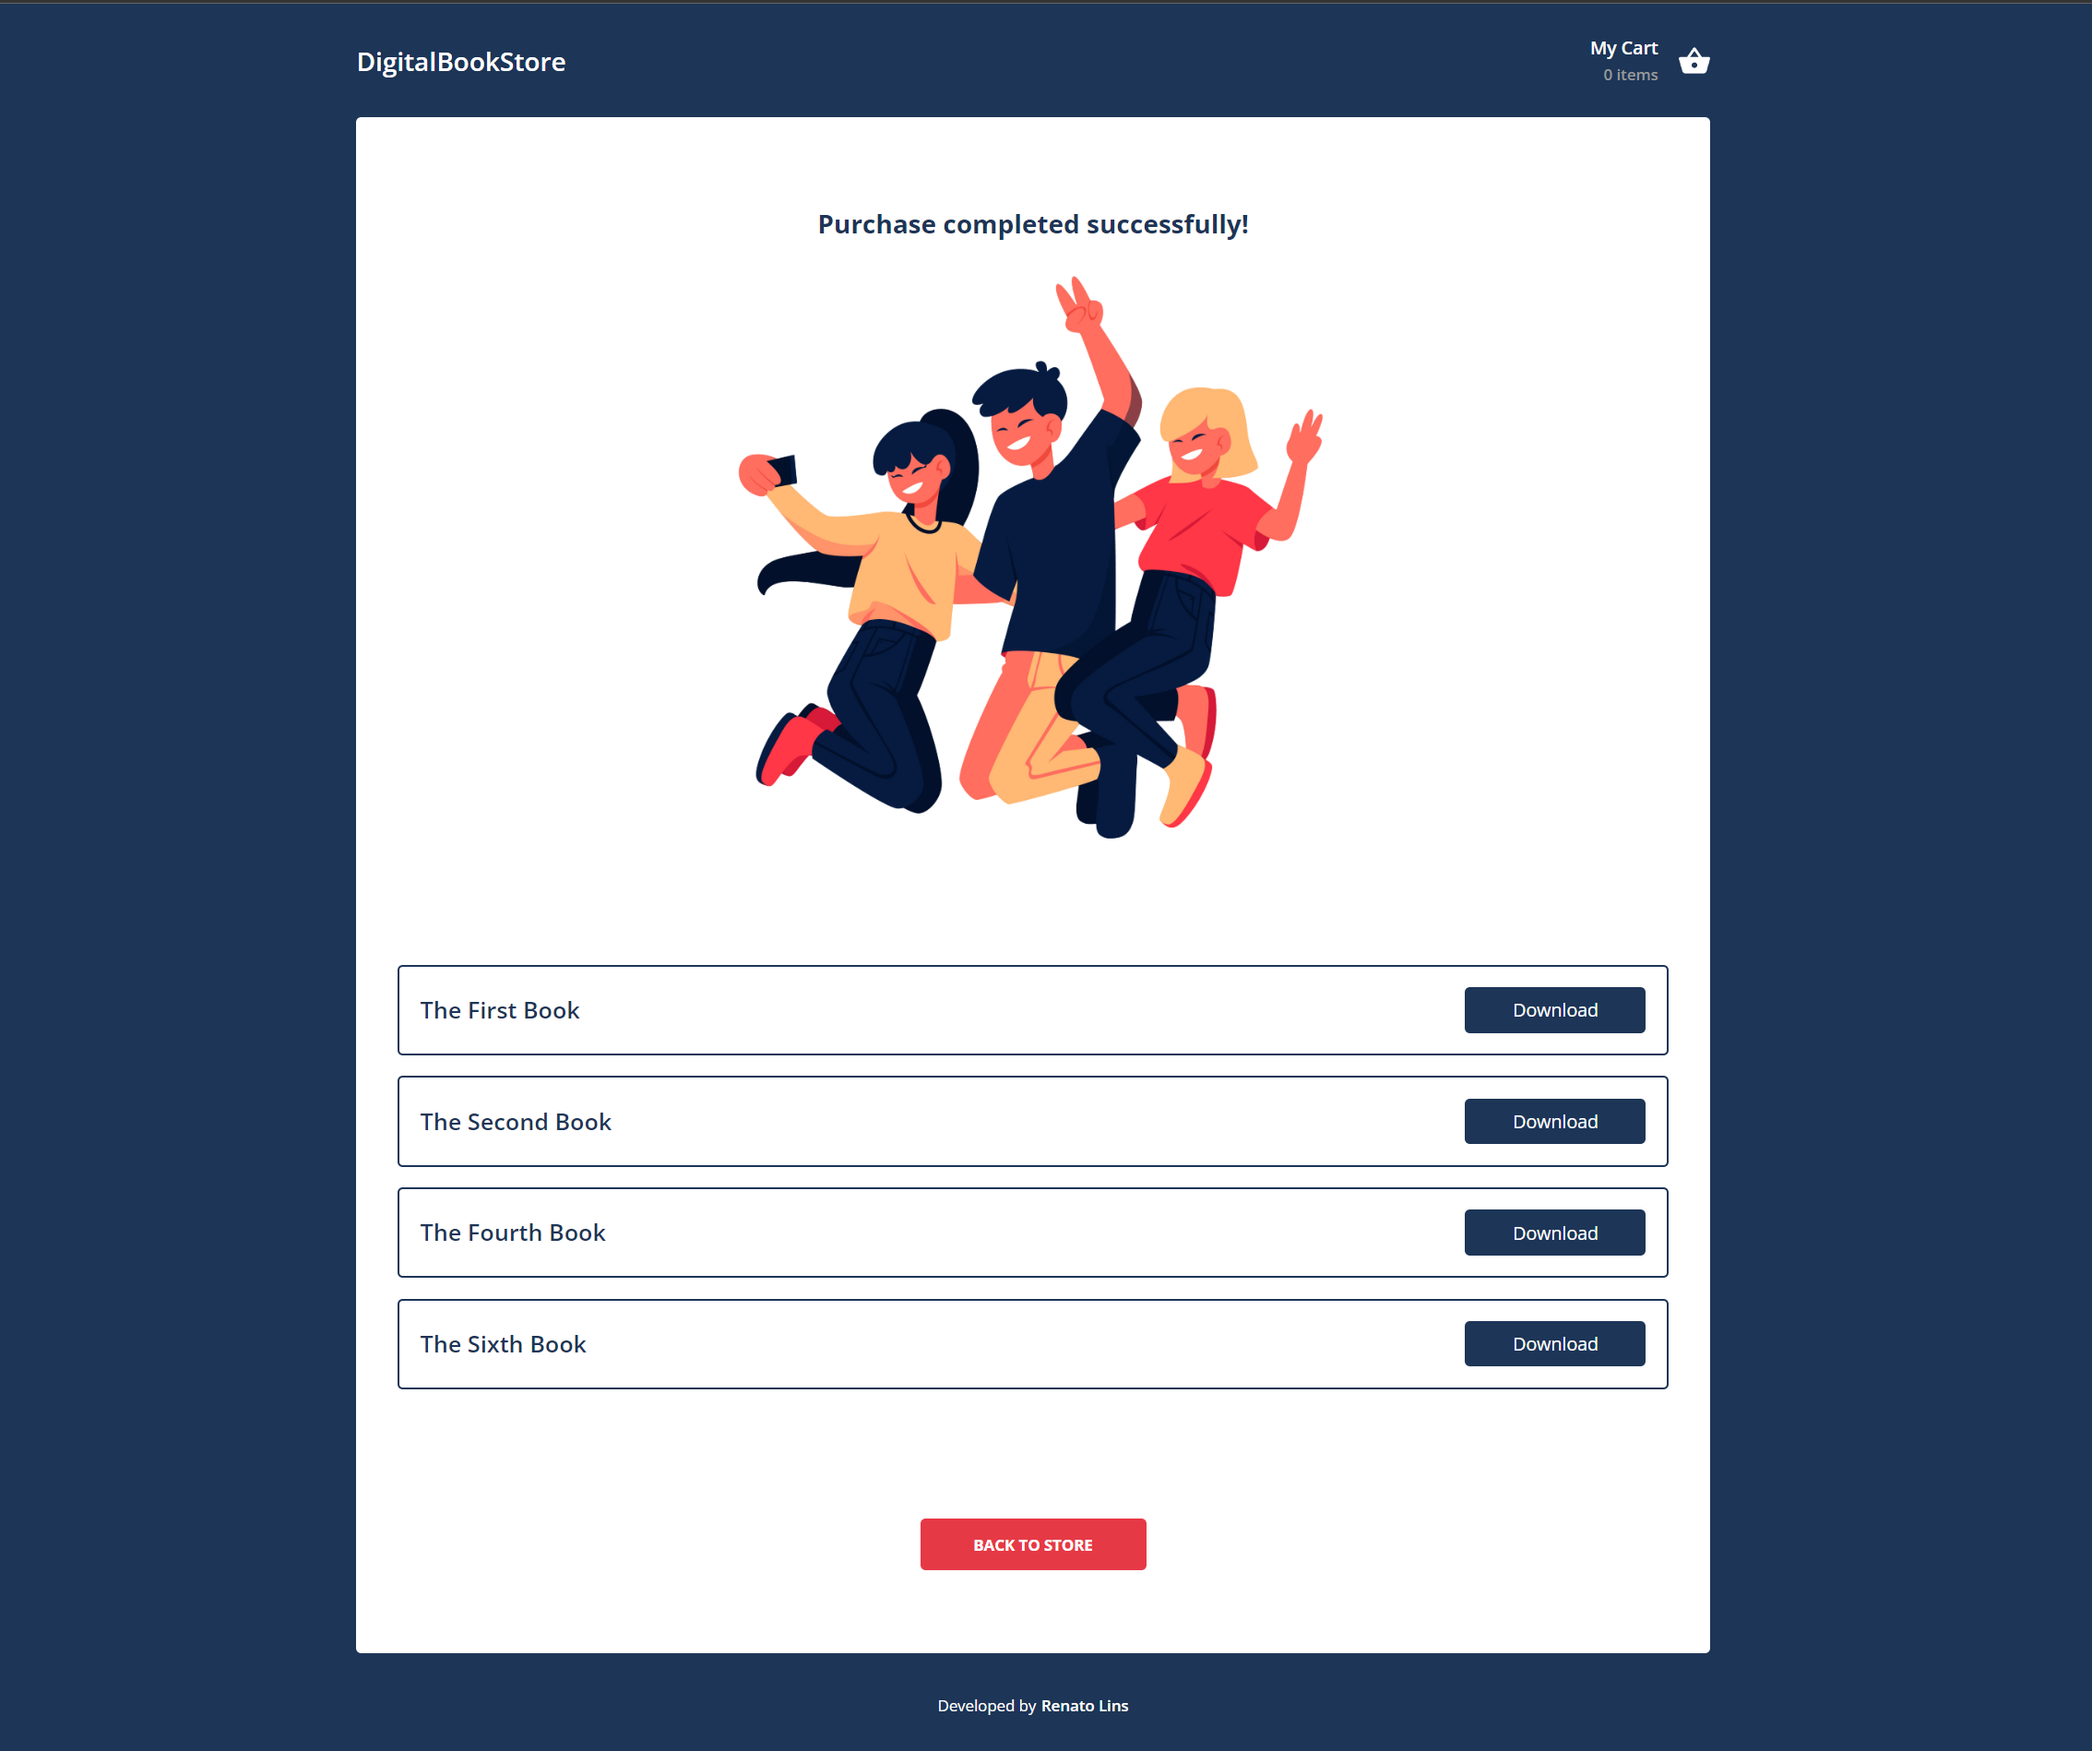
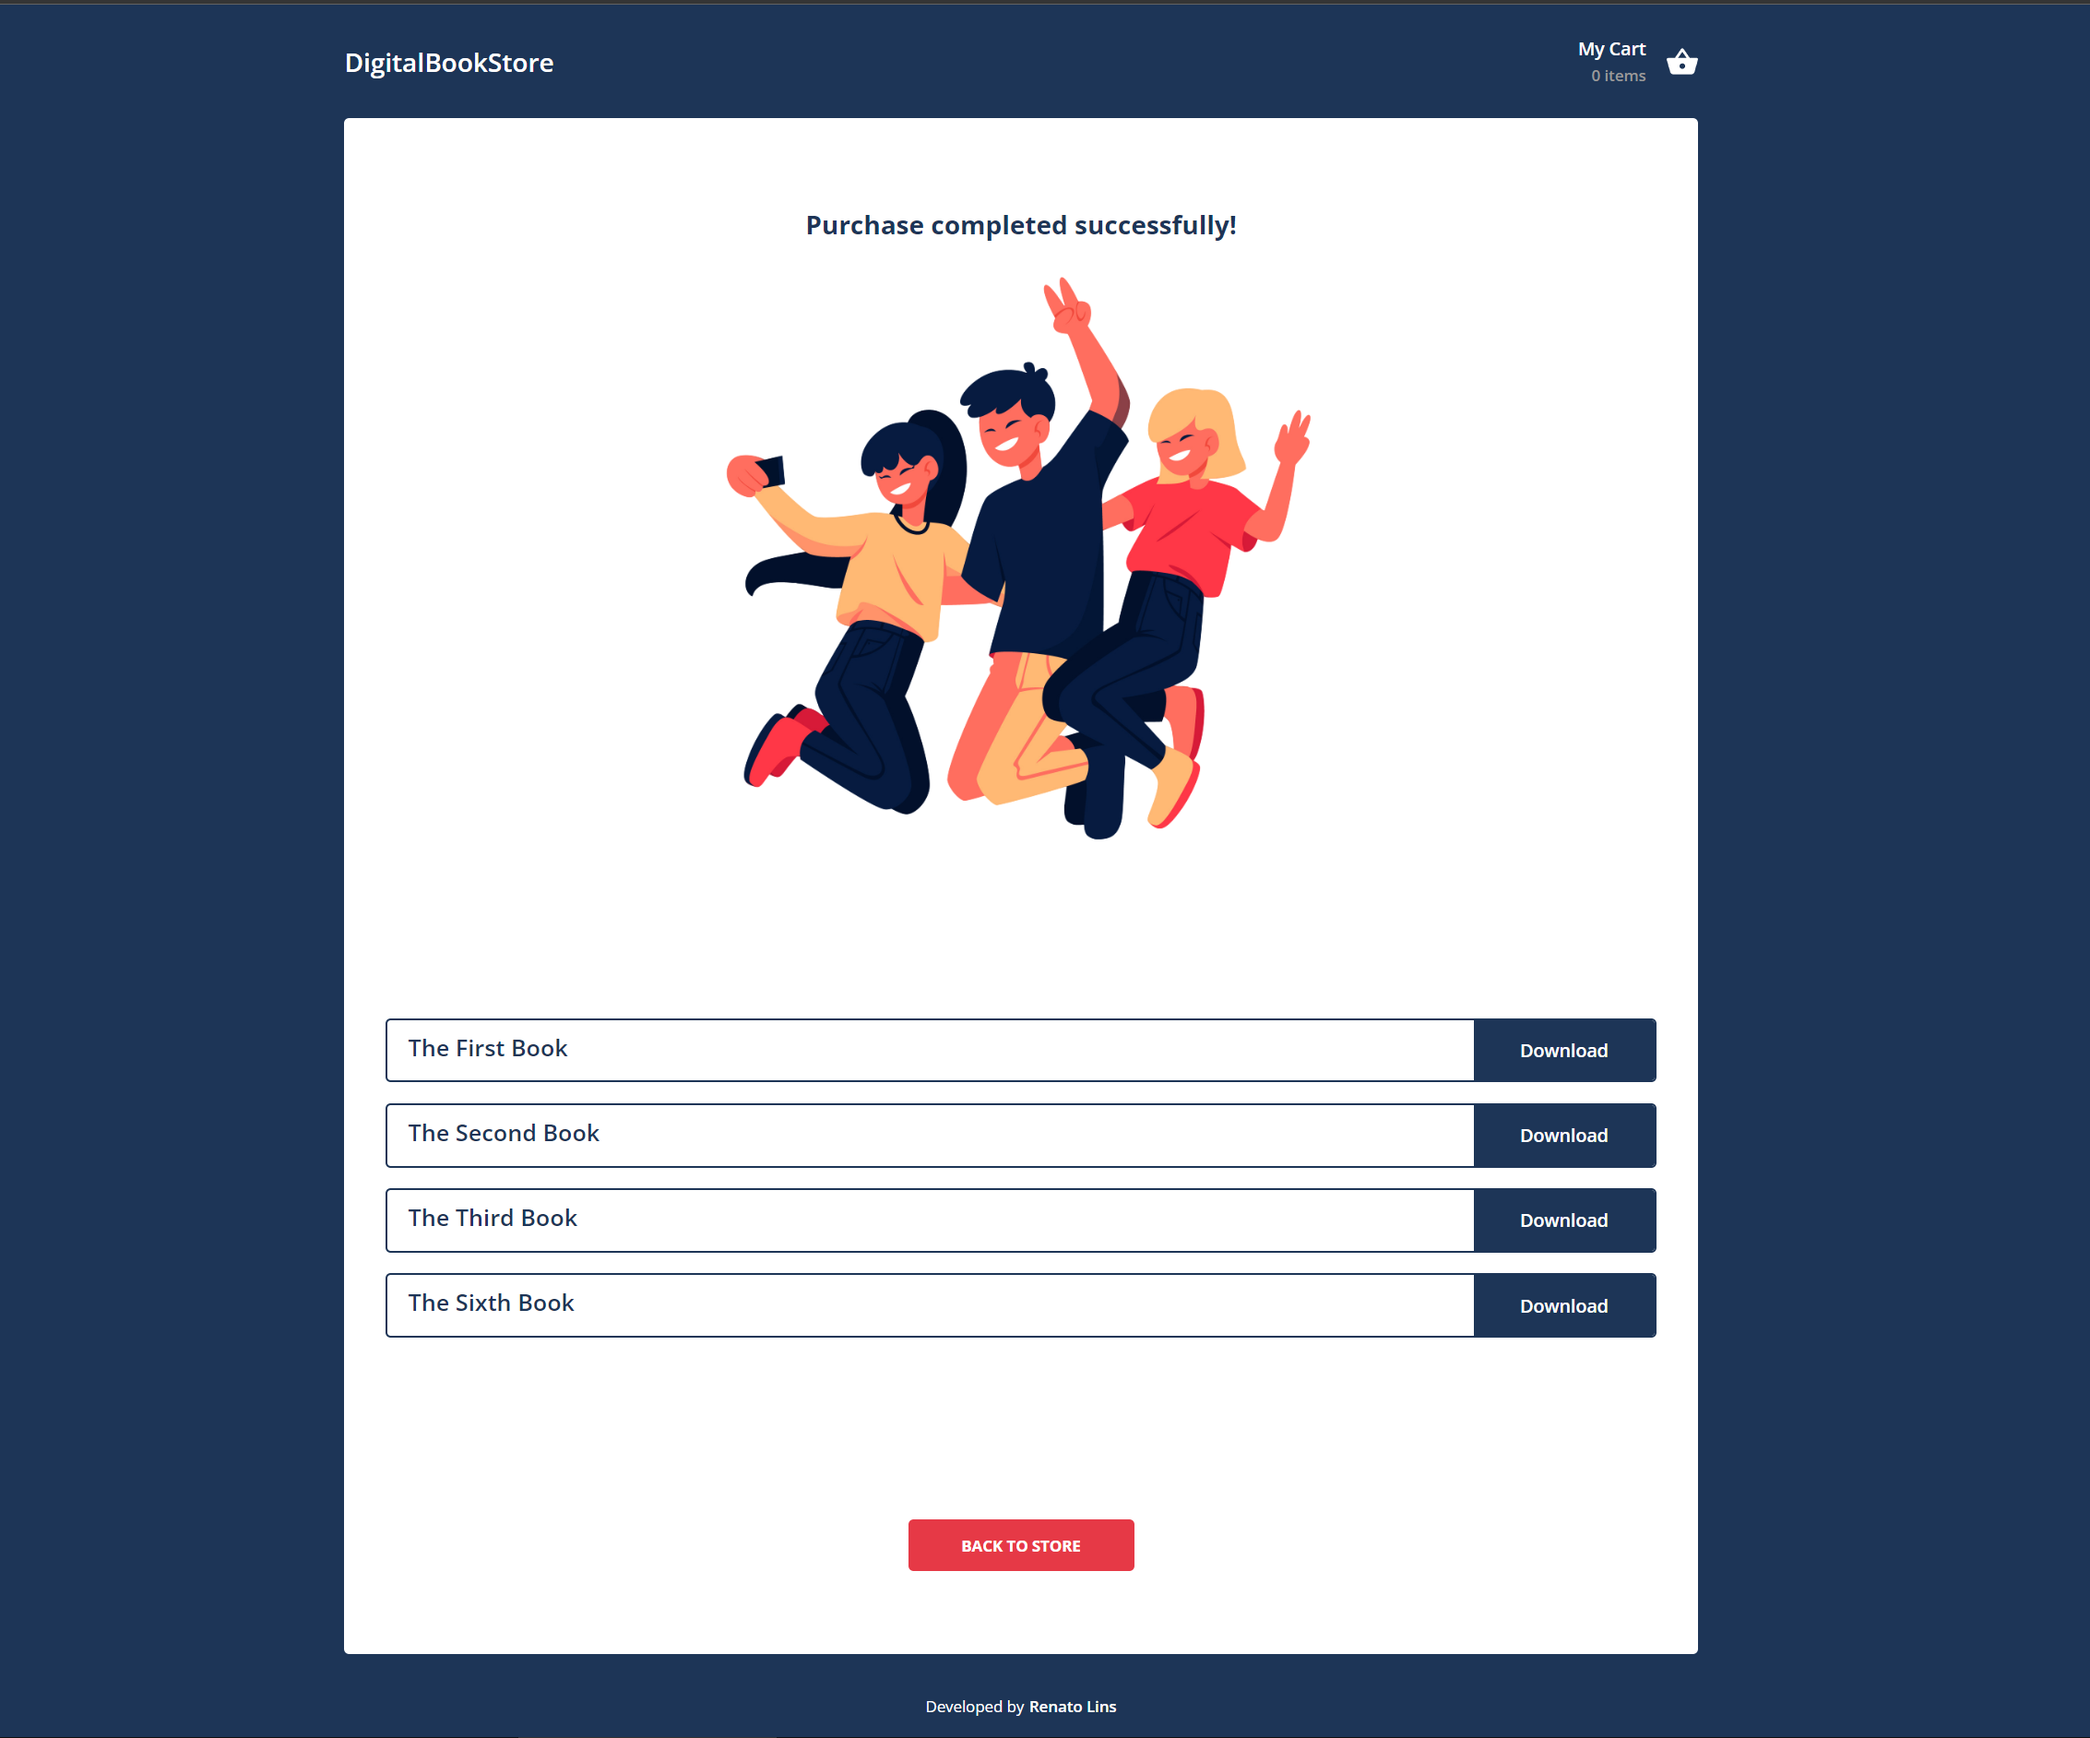
updates success page

Changed region(s): [[0.1545, 0.0, 0.8341, 0.9851], [0.3398, 0.1231, 0.6487, 0.4926]]

diff --git a/src/domain/pages/Success/Success.tsx b/src/domain/pages/Success/Success.tsx
@@ -65,38 +65,43 @@ const Success = () => {
           $flexDirection="column">
           {downloadItems.map((item, index) => (
             <BoxStyled
-              $isFlexWrapping
-              $borderWidth={2}
               $minWidth="100%"
-              $paddingLeft="1rem"
-              $paddingRight="1rem"
+              $borderWidth={2}
+              $overflow="hidden"
               $isStretched={false}
               $borderStyle="solid"
-              $paddingBottom="1rem"
               $borderRadius="0.25rem"
+              $justifyContent="flex-start"
               $borderColorName="secondary"
-              $justifyContent="space-between"
-              key={`item#${item.id}-${index}`}>
+              key={`item#${item.id}-${index}`}
+              $flexDirection={isSmaller ? 'column' : 'row'}>
               <TextStyled
-                $marginTop="1rem"
+                $flex={1}
+                $isFlexWrapping
+                $paddingLeft="1rem"
+                $paddingTop=".5rem"
+                $paddingRight="1rem"
                 $lineHeightName="tall"
+                $paddingBottom=".75rem"
                 $fontWeightName="semiBold"
+                $hoverBackgroundColorName="tertiary"
+                $minWidth={isSmaller ? '100%' : 'auto'}
                 $fontSizeName={youJokingRight ? 'superSmall' : 'large'}>
                 {item.title}
               </TextStyled>
               <Button
-                $width={140}
-                $maxWidth="100%"
-                $marginTop="1rem"
+                $borderRadius={0}
                 $paddingLeft="1rem"
-                $marginLeft="0.5rem"
                 $paddingTop="0.5rem"
                 $paddingRight="1rem"
-                $fontSizeName="small"
                 $paddingBottom="0.5rem"
-                onClick={() => onProductDownload(item.downloadUrl)}
                 $backgroundColorName="secondary"
-                $hoverBackgroundColorName="secondaryDark">
+                $width={isSmaller ? '100%' : 140}
+                $minHeight={isSmaller ? 'auto' : '100%'}
+                $hoverBackgroundColorName="secondaryDark"
+                onClick={() => onProductDownload(item.downloadUrl)}
+                $fontSizeName={youJokingRight ? 'superSmall' : 'small'}
+                $fontWeightName={youJokingRight ? 'regular' : 'semiBold'}>
                 Download
               </Button>
             </BoxStyled>

diff --git a/src/shared/components/TextStyled/TextStyled.ts b/src/shared/components/TextStyled/TextStyled.ts
@@ -148,9 +148,7 @@ const TextStyled = styled.span.attrs({
         color: $hoverColorName
           ? allColors[$hoverColorName as keyof AllColors]
           : 'inherit',
-        backgroundColor: $hoverBackgroundColorName
-          ? allColors[$hoverBackgroundColorName as keyof AllColors]
-          : allColors.transparent
+        backgroundColor: allColors[$hoverBackgroundColorName as keyof AllColors]
       }
     };
   }
